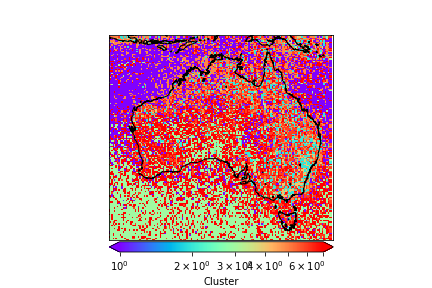
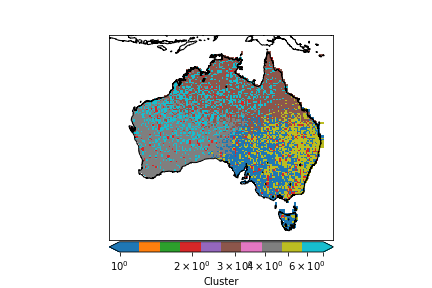
Averaging multi-year Januaries + using read_key over read_regridded_swaths + removed error from missing files

diff --git a/OMI_HCHO/HCHO Clustering.py b/OMI_HCHO/HCHO Clustering.py
@@ -69,18 +69,17 @@ print('test_plot.png saved')
 
 
 
-data,attr=rs.read_regridded_swath(d0,dN)
+data, fires, days, lats, lons=rs.read_key(d0,dN)
 
-print(data.keys()) # shows what keys are in our data structure
 
-print(data['VC_C'].shape) # shape of VC_C array
+print(data.shape) # shape of VC_C array
 
-print(attr['VC_C']) # attributes for VC_C
 
-HCHO=data['VC_C']
-fire=data['fires']
-lats=data['lats']
-lons=data['lons']
+
+HCHO=data
+fire=fires
+lats=lats
+lons=lons
 
 plt.figure(figsize=(10,12))
 
@@ -88,8 +87,8 @@ plt.figure(figsize=(10,12))
 
 # month avg 
 plt.subplot(311)
-HCHO_mean=np.nanmean(HCHO,axis=0)
-rs.plot_map(HCHO_mean,lats,lons,linear=False,
+HCHO_05_mean=np.nanmean(HCHO,axis=0)
+rs.plot_map(HCHO_05_mean,lats,lons,linear=False,
             vmin=1e14,vmax=1e16,cbarlabel='molec/cm2')
 plt.title('HCHO averaged over a month')
 
@@ -97,14 +96,50 @@ for i in range(4):
     plt.subplot(323+i)
     rs.plot_map(HCHO[i,:,:],lats,lons,linear=False,
             vmin=1e14,vmax=1e16,cbarlabel='molec/cm2')
-    plt.title(data['time'][i].strftime('OMI hcho %Y %m %d'))
+#    plt.title(data['time'][i].strftime('OMI hcho %Y %m %d'))
 
 plt.savefig('test_plot2.png')
 plt.close()
 print('test_plot2.png saved')
 
-HCHO_std = np.nanstd(HCHO,axis=0)
 
+
+
+## Get more years for mean
+
+d0=datetime(2006,1,1)
+dN=datetime(2006,1,31)
+data, fires, days, lats, lons=rs.read_key(d0,dN)
+HCHO_06=data
+HCHO_06_mean=np.nanmean(HCHO_06,axis=0)
+
+d0=datetime(2007,1,1)
+dN=datetime(2007,1,31)
+data, fires, days, lats, lons=rs.read_key(d0,dN)
+HCHO_07=data
+HCHO_07_mean=np.nanmean(HCHO_07,axis=0)
+
+d0=datetime(2008,1,1)
+dN=datetime(2008,1,31)
+data, fires, days, lats, lons=rs.read_key(d0,dN)
+HCHO_08=data
+HCHO_08_mean=np.nanmean(HCHO_08,axis=0)
+
+d0=datetime(2009,1,1)
+dN=datetime(2009,1,31)
+data, fires, days, lats, lons=rs.read_key(d0,dN)
+HCHO_09=data
+HCHO_09_mean=np.nanmean(HCHO_09,axis=0)
+
+d0=datetime(2010,1,1)
+dN=datetime(2010,1,31)
+data, fires, days, lats, lons=rs.read_key(d0,dN)
+HCHO_10=data
+HCHO_10_mean=np.nanmean(HCHO_10,axis=0)
+
+HCHO_mean = np.stack((HCHO_05_mean,HCHO_06_mean,HCHO_07_mean,HCHO_08_mean,HCHO_09_mean,HCHO_10_mean),axis=0)
+HCHO_std = np.nanstd(HCHO_mean,axis=0)
+HCHO_mean=np.nanmean(HCHO_mean,axis=0)
 
 
 ###
